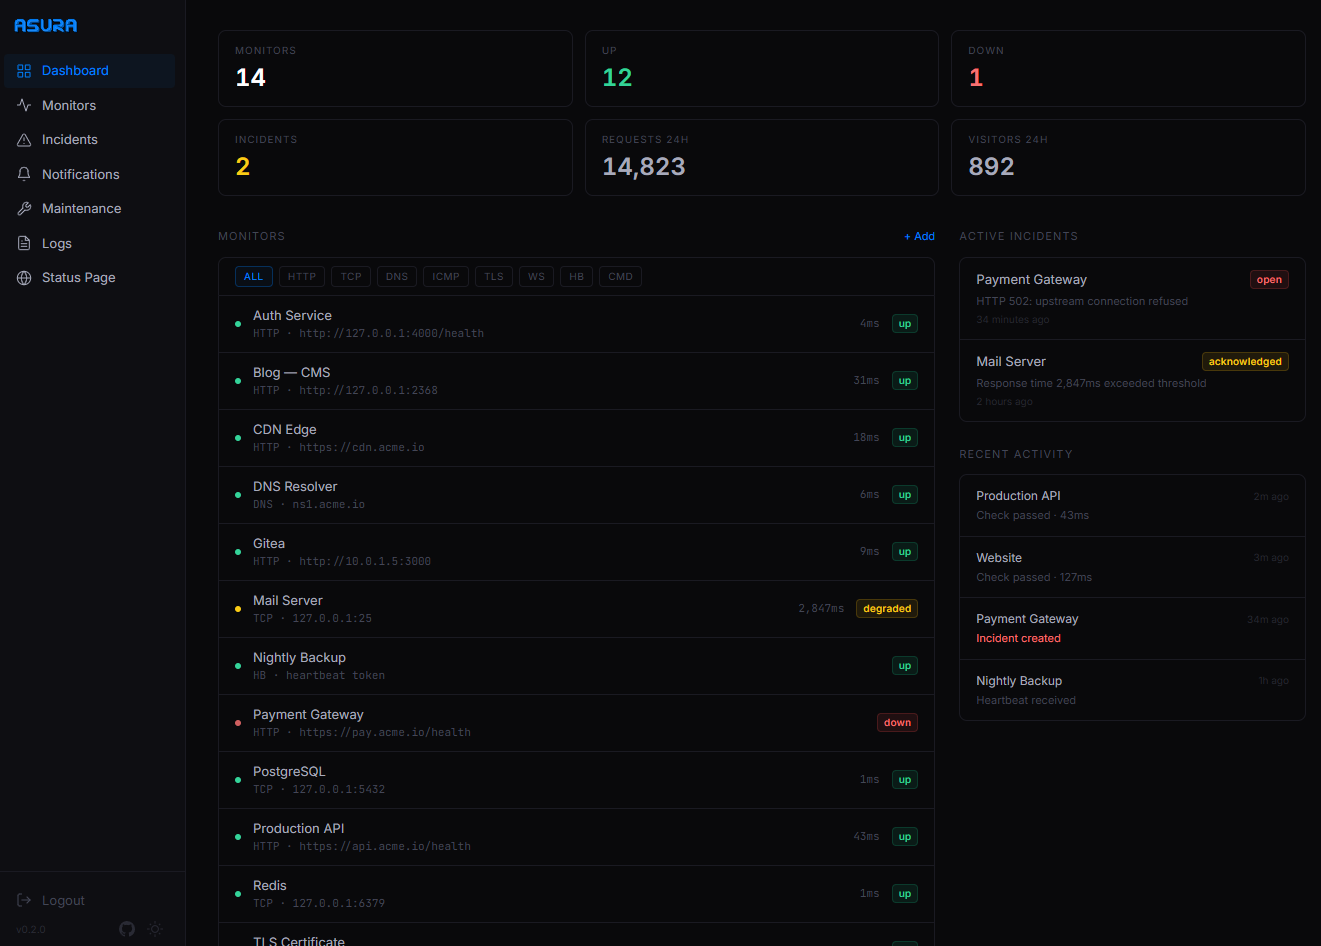
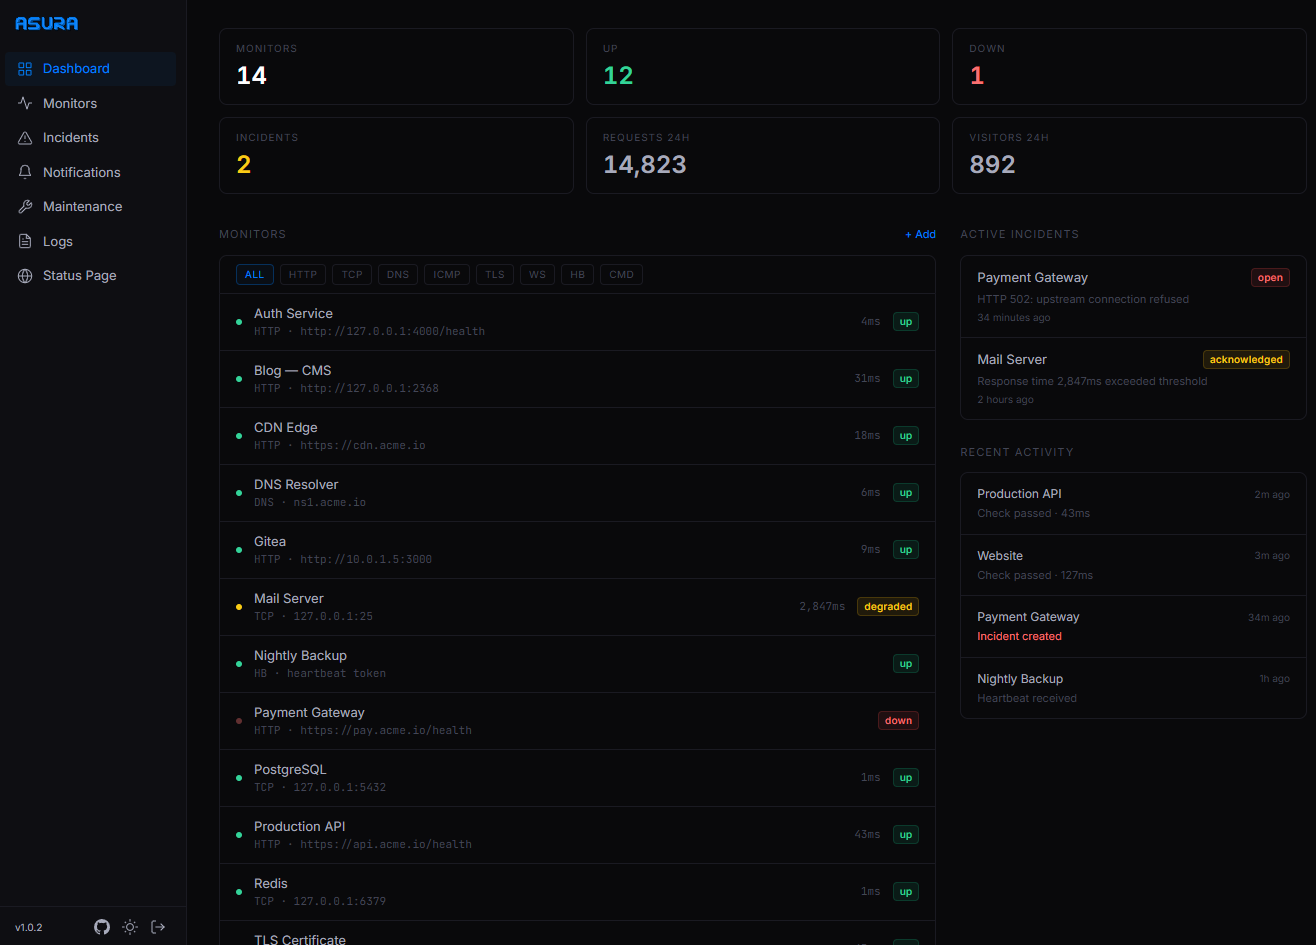
Polish UI: fix select dark mode, sidebar footer contrast, README
- Add form-select to IP filter select on logs page for proper
  appearance:none + SVG arrow, matching the monitor form pattern
- Fix sidebar footer (version, GitHub, theme, logout) from
  near-invisible text-muted/50 to text-muted-light, matching nav links
- Move Web UI section before Quick Start in README with updated screenshot

diff --git a/web/templates/layout.html b/web/templates/layout.html
@@ -118,17 +118,17 @@
     </nav>
 
     <div class="px-5 py-3 border-t border-line flex items-center justify-between">
-        <span class="text-[10px] text-muted/50">{{.Version}}</span>
+        <span class="text-[10px] text-muted-light">{{.Version}}</span>
         <div class="flex items-center gap-3">
-            <a href="https://github.com/y0f/Asura" target="_blank" rel="noopener" class="text-muted/50 hover:text-white transition-colors" title="GitHub">
+            <a href="https://github.com/y0f/Asura" target="_blank" rel="noopener" class="text-muted-light hover:text-white transition-colors" title="GitHub">
                 <svg class="w-4 h-4" viewBox="0 0 16 16" fill="currentColor"><path d="M8 0C3.58 0 0 3.58 0 8c0 3.54 2.29 6.53 5.47 7.59.4.07.55-.17.55-.38 0-.19-.01-.82-.01-1.49-2.01.37-2.53-.49-2.69-.94-.09-.23-.48-.94-.82-1.13-.28-.15-.68-.52-.01-.53.63-.01 1.08.58 1.23.82.72 1.21 1.87.87 2.33.66.07-.52.28-.87.51-1.07-1.78-.2-3.64-.89-3.64-3.95 0-.87.31-1.59.82-2.15-.08-.2-.36-1.02.08-2.12 0 0 .67-.21 2.2.82.64-.18 1.32-.27 2-.27.68 0 1.36.09 2 .27 1.53-1.04 2.2-.82 2.2-.82.44 1.1.16 1.92.08 2.12.51.56.82 1.27.82 2.15 0 3.07-1.87 3.75-3.65 3.95.29.25.54.73.54 1.48 0 1.07-.01 1.93-.01 2.2 0 .21.15.46.55.38A8.013 8.013 0 0016 8c0-4.42-3.58-8-8-8z"/></svg>
             </a>
-            <button onclick="toggleTheme()" class="text-muted/50 hover:text-white transition-colors" title="Toggle theme">
+            <button onclick="toggleTheme()" class="text-muted-light hover:text-white transition-colors" title="Toggle theme">
                 <svg class="w-4 h-4 dark:hidden" viewBox="0 0 24 24" fill="none" stroke="currentColor" stroke-width="1.5" stroke-linecap="round" stroke-linejoin="round"><path d="M21 12.79A9 9 0 1 1 11.21 3 7 7 0 0 0 21 12.79z"/></svg>
                 <svg class="w-4 h-4 hidden dark:block" viewBox="0 0 24 24" fill="none" stroke="currentColor" stroke-width="1.5" stroke-linecap="round" stroke-linejoin="round"><circle cx="12" cy="12" r="5"/><line x1="12" y1="1" x2="12" y2="3"/><line x1="12" y1="21" x2="12" y2="23"/><line x1="4.22" y1="4.22" x2="5.64" y2="5.64"/><line x1="18.36" y1="18.36" x2="19.78" y2="19.78"/><line x1="1" y1="12" x2="3" y2="12"/><line x1="21" y1="12" x2="23" y2="12"/><line x1="4.22" y1="19.78" x2="5.64" y2="18.36"/><line x1="18.36" y1="5.64" x2="19.78" y2="4.22"/></svg>
             </button>
             <form action="{{.BasePath}}/logout" method="POST" class="flex items-center">
-                <button type="submit" class="text-muted/50 hover:text-white transition-colors" title="Logout">
+                <button type="submit" class="text-muted-light hover:text-white transition-colors" title="Logout">
                     <svg class="w-4 h-4" viewBox="0 0 24 24" fill="none" stroke="currentColor" stroke-width="1.5" stroke-linecap="round" stroke-linejoin="round"><path d="M9 21H5a2 2 0 0 1-2-2V5a2 2 0 0 1 2-2h4"/><polyline points="16 17 21 12 16 7"/><line x1="21" y1="12" x2="9" y2="12"/></svg>
                 </button>
             </form>

diff --git a/web/templates/request_logs.html b/web/templates/request_logs.html
@@ -42,7 +42,7 @@
             <input type="hidden" name="range" value="{{.Data.TimeRange}}">
             {{if .Data.Filter}}<input type="hidden" name="group" value="{{.Data.Filter}}">{{end}}
             <select name="ip" onchange="this.form.submit()"
-                    class="px-2.5 py-1 text-[11px] border rounded transition-colors focus:outline-none {{if .Data.ClientIP}}text-brand border-brand/30 bg-brand/[0.04]{{else}}text-muted border-line bg-transparent hover:text-muted-light{{end}}">
+                    class="form-select px-2.5 py-1 text-[11px] border rounded transition-colors focus:outline-none {{if .Data.ClientIP}}text-brand border-brand/30 bg-brand/[0.04]{{else}}text-muted border-line bg-surface hover:text-muted-light{{end}}">
                 <option value="">All IPs</option>
                 {{range .Data.TopIPs}}
                 <option value="{{.}}" {{if eq . $.Data.ClientIP}}selected{{end}}>{{.}}</option>

diff --git a/README.md b/README.md
@@ -65,6 +65,36 @@ No runtime. No external database. No container required. Build, copy, run.
 
 ---
 
+## Web UI
+
+Asura includes a lightweight built-in dashboard implemented with HTMX, TailwindCSS, and Alpine.js. No Node.js runtime required — the CSS is pre-built and committed.
+
+![Web UI](assets/webpanel.png)
+
+### Features
+
+- **Form-based monitor configuration** — per-protocol settings with dropdowns, toggles, and key-value builders. No JSON required.
+- **Assertion builder** — visual rule editor with type-aware operator dropdowns and soft/hard failure modes.
+- **Notification channel forms** — per-type fields for Webhook, Email, Telegram, Discord, and Slack. Event checkboxes instead of CSV.
+- **Advanced JSON mode** — toggle on any form to drop into a raw JSON textarea for power users or API parity.
+- **Dashboard** — live status overview with response time sparklines, tag filters, and bulk actions.
+- **Incident timeline** — per-incident event history with ack/resolve actions.
+- **Content change diffs** — line-by-line comparison of body changes.
+- **Request log viewer** — filter by route group, method, status code with visitor analytics.
+- **Public status page** — configurable from the sidebar with 90-day uptime bars and custom CSS.
+- **Sub-path aware** — all links, forms, and assets respect `base_path` configuration.
+
+The web UI and REST API are fully equivalent — every monitor, notification, and setting configurable via API can also be managed through the dashboard.
+
+The UI is enabled by default and can be disabled for API-only deployments:
+
+```yaml
+server:
+  web_ui_enabled: true
+```
+
+---
+
 ## Quick Start
 
 ### VPS (recommended)
@@ -689,38 +719,6 @@ Scheduler -> Worker Pool -> Result Processor -> Dispatcher
 ```
 
 Channel-based pipeline with backpressure. SQLite WAL mode with separate read/write pools.
-
----
-
-## Web UI
-
-Asura includes a lightweight built-in dashboard implemented with HTMX, TailwindCSS, and Alpine.js. No Node.js runtime required — the CSS is pre-built and committed.
-
-### Features
-
-- **Form-based monitor configuration** — per-protocol settings with dropdowns, toggles, and key-value builders. No JSON required.
-- **Assertion builder** — visual rule editor with type-aware operator dropdowns and soft/hard failure modes.
-- **Notification channel forms** — per-type fields for Webhook, Email, Telegram, Discord, and Slack. Event checkboxes instead of CSV.
-- **Advanced JSON mode** — toggle on any form to drop into a raw JSON textarea for power users or API parity.
-- **Dashboard** — live status overview with response time sparklines, tag filters, and bulk actions.
-- **Incident timeline** — per-incident event history with ack/resolve actions.
-- **Content change diffs** — line-by-line comparison of body changes.
-- **Request log viewer** — filter by route group, method, status code with visitor analytics.
-- **Public status page** — configurable from the sidebar with 90-day uptime bars and custom CSS.
-- **Sub-path aware** — all links, forms, and assets respect `base_path` configuration.
-
-The web UI and REST API are fully equivalent — every monitor, notification, and setting configurable via API can also be managed through the dashboard.
-
-The UI is enabled by default and can be disabled for API-only deployments:
-
-```yaml
-server:
-  web_ui_enabled: true
-```
-
-See the [Configuration](#configuration) section for details.
-
-![Web UI](assets/webpanel.png)
 
 ## Contributing
 
